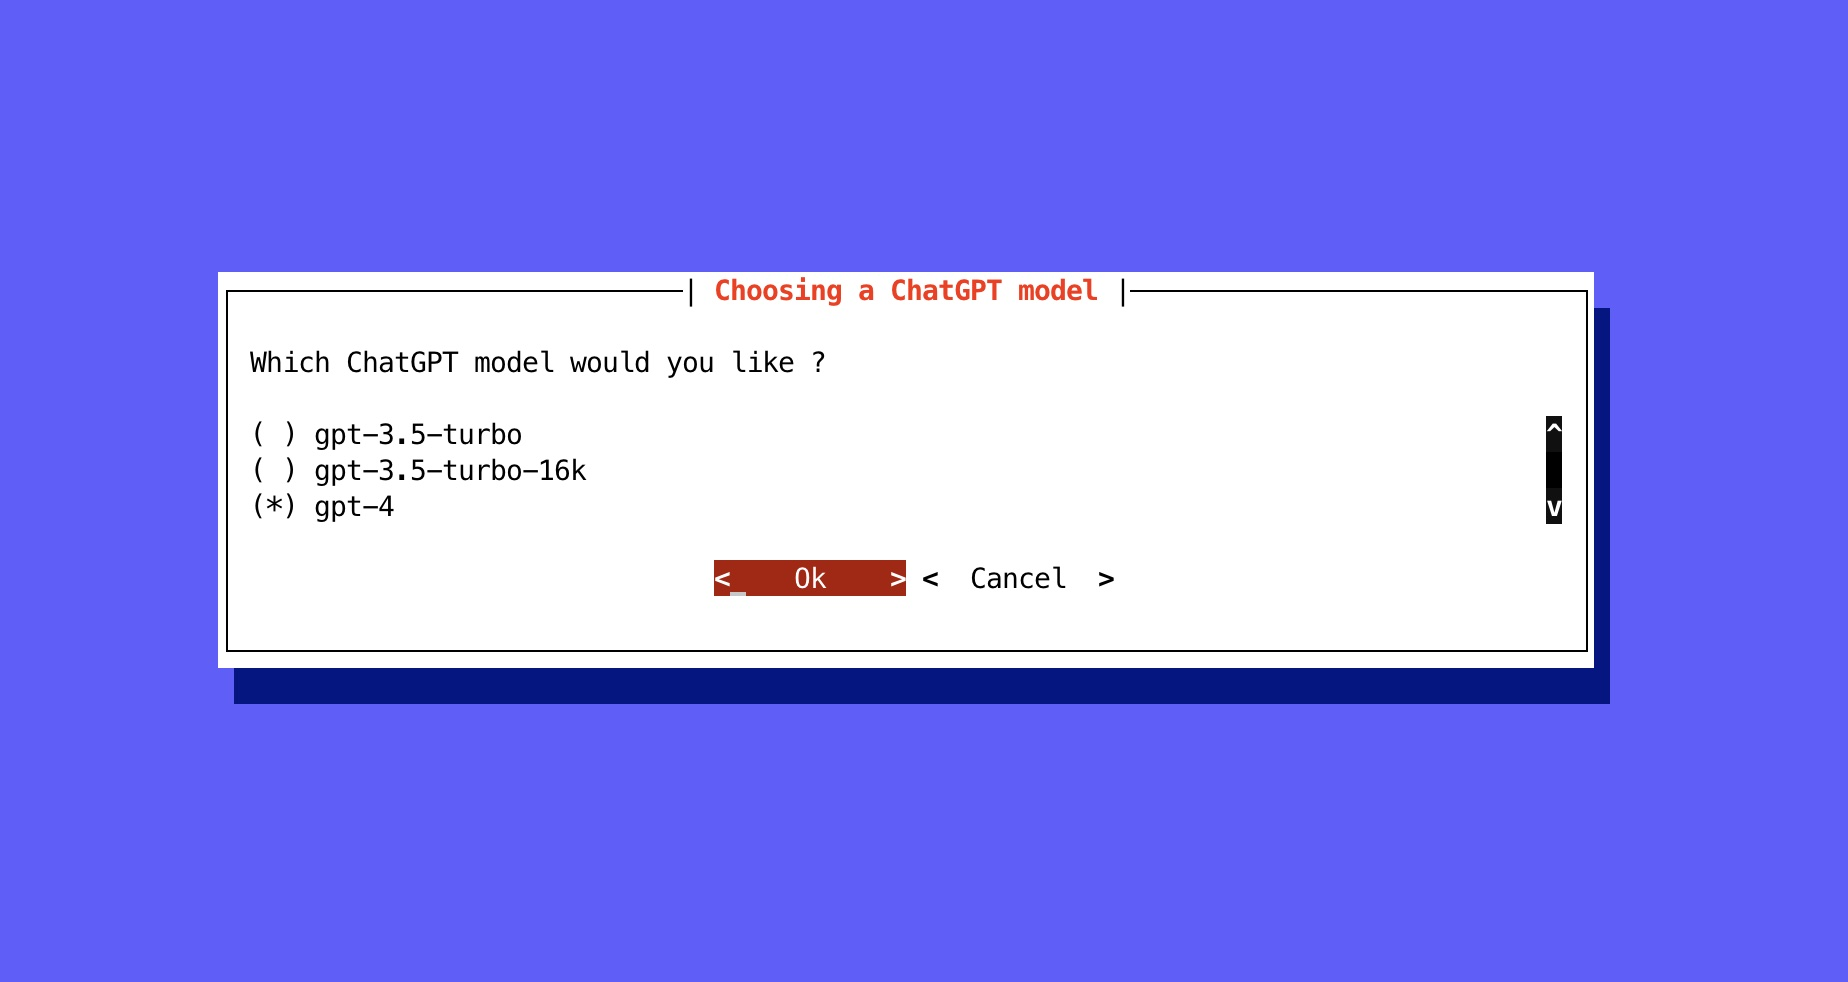
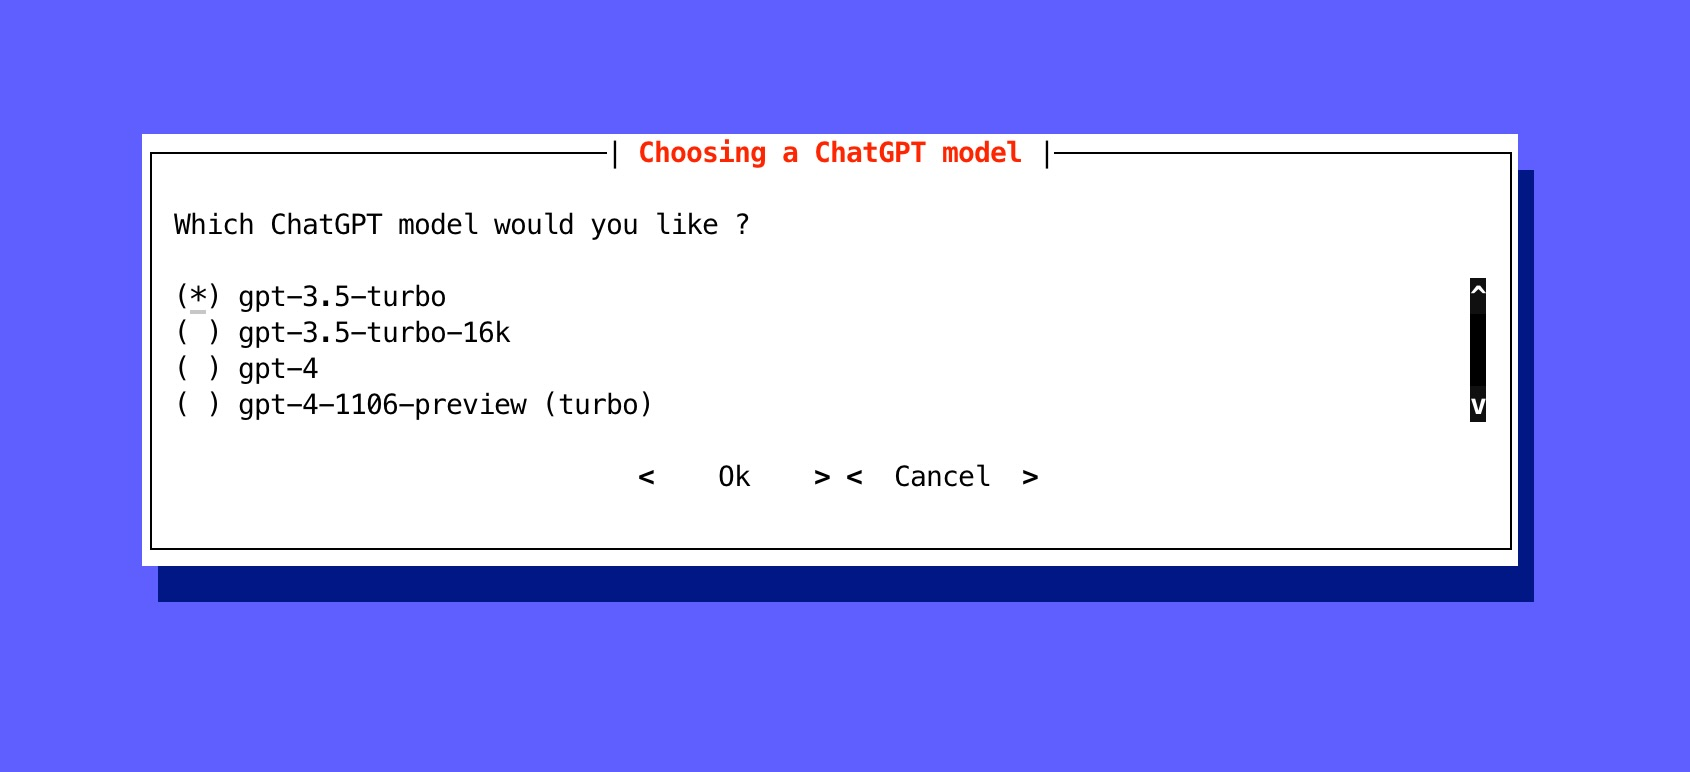
Update post: Creating a Powerful Interactive CLI App with ChatGPT in Python

Changed region(s): [[0.0615, 0.1554, 0.9231, 0.7772], [0.3692, 0.5596, 0.4923, 0.6218]]

diff --git a/content/post/creating-interactive-cli-app-with-chatgpt-in-python/index.md b/content/post/creating-interactive-cli-app-with-chatgpt-in-python/index.md
@@ -32,12 +32,11 @@ Let's start with a very simple and naive version of our CLI application:
 
 ```python
 import os
-import openai
+from openai import OpenAI  # pip install "openai>=1.7.0"
 
 # Please remember to export your API key to environment variables.
 # $> export OPENAI_API_KEY=...
-openai.api_key = os.getenv('OPENAI_API_KEY')
-# openai.organization = 'org-...'
+client = OpenAI(api_key=os.getenv('OPENAI_API_KEY'))
 openai_model = 'gpt-3.5-turbo'
 
 messages = [
@@ -50,7 +49,7 @@ while True:
     if message:
         messages.append({'role': 'user', 'content': message})
         # https://platform.openai.com/docs/guides/chat/chat-vs-completions
-        chat_completion = openai.ChatCompletion.create(
+        chat_completion = client.chat.completions.create(
             model=openai_model,
             messages=messages,
             # Temperature: 0.5 to 0.7 for a balance
@@ -83,12 +82,11 @@ By simply replacing the standard Python `input` with the `prompt` from the `prom
 
 ```python
 import os
-import openai
+from openai import OpenAI  # pip install "openai>=1.7.0"
 
 from prompt_toolkit import prompt
 
-openai.api_key = os.getenv('OPENAI_API_KEY')
-# openai.organization = 'org-...'
+client = OpenAI(api_key=os.getenv('OPENAI_API_KEY'))
 openai_model = 'gpt-3.5-turbo'
 
 messages = [
@@ -99,7 +97,7 @@ while True:
     message = prompt('Human: ')  # only one change
     if message:
         messages.append({'role': 'user', 'content': message})
-        chat_completion = openai.ChatCompletion.create(
+        chat_completion = client.chat.completions.create(
             model=openai_model,
             messages=messages,
             temperature=.5,
@@ -124,14 +122,13 @@ Or `Escape` followed by `Enter`.
 
 ```python
 import os
-import openai
+from openai import OpenAI  # pip install "openai>=1.7.0"
 
 from prompt_toolkit import prompt
 from prompt_toolkit.cursor_shapes import CursorShape
 from prompt_toolkit import print_formatted_text, HTML
 
-openai.api_key = os.getenv('OPENAI_API_KEY')
-# openai.organization = 'org-...'
+client = OpenAI(api_key=os.getenv('OPENAI_API_KEY'))
 openai_model = 'gpt-3.5-turbo'
 
 messages = [
@@ -150,7 +147,7 @@ while True:
     message = prompt(get_prompt, cursor=CursorShape.BLOCK, multiline=True)
     if message:
         messages.append({'role': 'user', 'content': message})
-        chat_completion = openai.ChatCompletion.create(
+        chat_completion = client.chat.completions.create(
             model=openai_model,
             messages=messages,
             temperature=.5,
@@ -191,7 +188,7 @@ Another difference from previous versions: the `PromptSession` class will be use
 
 ```python
 import os
-import openai
+from openai import OpenAI  # pip install "openai>=1.7.0"
 
 from prompt_toolkit import PromptSession
 from prompt_toolkit.history import FileHistory
@@ -199,8 +196,7 @@ from prompt_toolkit.auto_suggest import AutoSuggestFromHistory
 from prompt_toolkit.cursor_shapes import CursorShape
 from prompt_toolkit import print_formatted_text, HTML
 
-openai.api_key = os.getenv('OPENAI_API_KEY')
-# openai.organization = 'org-...'
+client = OpenAI(api_key=os.getenv('OPENAI_API_KEY'))
 openai_model = 'gpt-3.5-turbo'
 
 messages = [
@@ -228,7 +224,7 @@ while True:
 
     if message:
         messages.append({'role': 'user', 'content': message})
-        chat_completion = openai.ChatCompletion.create(
+        chat_completion = client.chat.completions.create(
             model=openai_model,
             messages=messages,
             temperature=.5,
@@ -248,7 +244,7 @@ Let's implement this feature by adding a full-screen dialog to select the ChatGP
 
 ```python
 import os
-import openai
+from openai import OpenAI  # pip install "openai>=1.7.0"
 
 from prompt_toolkit import PromptSession
 from prompt_toolkit.history import FileHistory
@@ -257,8 +253,8 @@ from prompt_toolkit.cursor_shapes import CursorShape
 from prompt_toolkit import print_formatted_text, HTML
 from prompt_toolkit.shortcuts import radiolist_dialog
 
-openai.api_key = os.getenv('OPENAI_API_KEY')
-# openai.organization = 'org-...'
+client = OpenAI(api_key=os.getenv('OPENAI_API_KEY'))
+openai_model = 'gpt-3.5-turbo'
 
 messages = [
     {'role': 'system', 'content': 'You are a helpful assistant.'},
@@ -281,7 +277,8 @@ openai_model = radiolist_dialog(
     values=[
         ('gpt-3.5-turbo', 'gpt-3.5-turbo'),
         ('gpt-3.5-turbo-16k', 'gpt-3.5-turbo-16k'),
-        ('gpt-4', 'gpt-4')
+        ('gpt-4', 'gpt-4'),
+        ('gpt-4-1106-preview', 'gpt-4-1106-preview (turbo)'),
     ]
 ).run()
 
@@ -295,7 +292,7 @@ while openai_model:
 
     if message:
         messages.append({'role': 'user', 'content': message})
-        chat_completion = openai.ChatCompletion.create(
+        chat_completion = client.chat.completions.create(
             model=openai_model,
             messages=messages,
             temperature=.5,
@@ -318,7 +315,7 @@ This version of the script can already be used on a daily basis without any disc
 ```python
 import asyncio
 import os
-import openai
+from openai import AsyncOpenAI
 
 from prompt_toolkit import PromptSession
 from prompt_toolkit.history import FileHistory
@@ -328,8 +325,7 @@ from prompt_toolkit import print_formatted_text, HTML
 from prompt_toolkit.shortcuts import radiolist_dialog
 from prompt_toolkit.patch_stdout import patch_stdout
 
-openai.api_key = os.getenv('OPENAI_API_KEY')
-# openai.organization = 'org-...'
+aclient = AsyncOpenAI(api_key=os.getenv('OPENAI_API_KEY'))
 
 def get_prompt():
     return [
@@ -345,7 +341,8 @@ def choose_openai_model() -> str:
         values=[
             ('gpt-3.5-turbo', 'gpt-3.5-turbo'),
             ('gpt-3.5-turbo-16k', 'gpt-3.5-turbo-16k'),
-            ('gpt-4', 'gpt-4')
+            ('gpt-4', 'gpt-4'),
+            ('gpt-4-1106-preview', 'gpt-4-1106-preview (turbo)'),
         ]
     ).run()
 
@@ -372,7 +369,7 @@ async def main(openai_model: str):
             if message:
                 messages.append({'role': 'user', 'content': message})
                 print_formatted_text(name)
-                chat_completion = await openai.ChatCompletion.acreate(
+                chat_completion = await aclient.chat.completions.create(
                     model=openai_model,
                     messages=messages,
                     temperature=.5,
@@ -381,9 +378,9 @@ async def main(openai_model: str):
 
                 reply = ''
                 async for chunk in chat_completion:
-                    content = chunk['choices'][0]['delta'].get('content', '')
+                    content = chunk.choices[0].delta.content
                     print_formatted_text(content, end='')
-                    reply += content
+                    reply += content or ''
 
                 print_formatted_text('')
                 messages.append({'role': 'assistant', 'content': reply})
